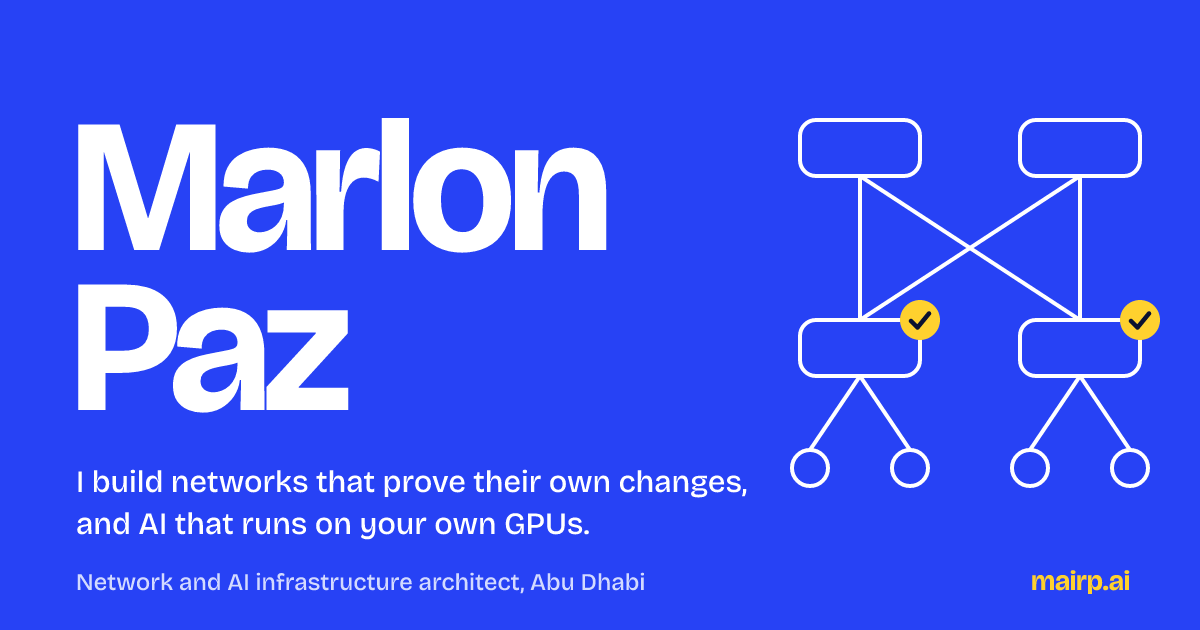
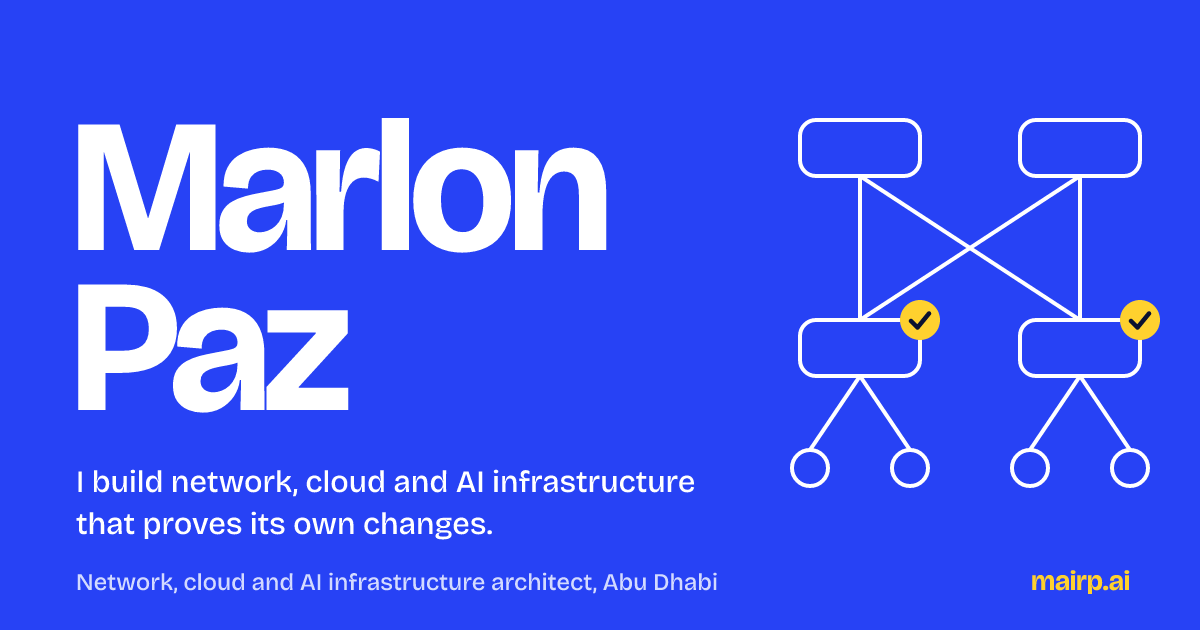
content: describe the work as network, cloud and AI infrastructure
The statement under the name said "I build networks that prove their own
changes, and AI that runs on your own GPUs.", which read as networks only.
It now reads "I build network, cloud and AI infrastructure that proves its own
changes." The role line follows in the title, meta description, footer, About
page, social card and README, and the hero names Kubernetes platforms and GPU
inference stacks next to multivendor fabrics. Recorded in DECISIONS.md.

Changed region(s): [[0.0617, 0.8143, 0.4933, 0.8746], [0.1542, 0.9048, 0.6167, 0.9349], [0.2467, 0.754, 0.6167, 0.7841]]

diff --git a/src/lib/site.ts b/src/lib/site.ts
@@ -3,9 +3,9 @@ export const SITE = {
   name: 'Marlon Paz',
   practice: 'Network & AI Systems Consulting',
   url: 'https://mairp.ai',
-  title: 'Marlon Paz, network and AI infrastructure architect',
+  title: 'Marlon Paz: network, cloud and AI infrastructure architect',
   description:
-    'Independent consulting by Marlon Paz: multivendor network automation, agentic NetOps/CloudOps (intent-to-fabric with verified-on-device change), and sovereign local inference on your own GPUs. Every claim on this site links to public evidence.',
+    'Marlon Paz designs and automates network, cloud and AI infrastructure: multivendor fabrics, Kubernetes platforms, agentic NetOps/CloudOps with verified-on-device change, and sovereign inference on your own GPUs. Every claim on this site links to public evidence.',
   tagline: 'Infrastructure that verifies itself.',
   caption: 'AI you can run on your own GPUs.',
   email: 'marlon.paz@ieee.org',
@@ -40,7 +40,7 @@ export const PORTRAIT: { src: string; small: string; width: number; height: numb
 };
 
 /** The one-sentence statement under the name. */
-export const STATEMENT = 'I build networks that prove their own changes, and AI that runs on your own GPUs.';
+export const STATEMENT = 'I build network, cloud and AI infrastructure that proves its own changes.';
 
 /** Credentials named in the hero: each is verifiable from the badge wall or the papers. */
 export const HERO_CREDENTIALS = [

diff --git a/DECISIONS.md b/DECISIONS.md
@@ -27,6 +27,13 @@ until the device proves it.* The moat is not "AI" — every boutique says AI —
 as the hub. Owner sign-off 2026-10-07 (naming, tagline variant "on your own GPUs",
 accent, curated+grouped grid, Core42 as credential line only).
 
+**Broadened 2026-11-18 (owner).** The statement under the name read "I build networks
+that prove their own changes, and AI that runs on your own GPUs.", which framed the work as
+networks only. It now reads "I build network, cloud and AI infrastructure that proves its own
+changes.", and the role line is "network, cloud and AI infrastructure architect" (title, meta
+description, footer, social card). Sovereign inference on your own GPUs stays in the meta
+description and the services. The jobTitle in the JSON-LD and the practice name are unchanged.
+
 ## Claim → evidence map (the honesty rule)
 
 | Claim on the site | Evidence |

diff --git a/README.md b/README.md
@@ -1,6 +1,6 @@
 # mairp.ai
 
-The personal site of Marlon Paz, network and AI infrastructure architect: who he is, the
+The personal site of Marlon Paz, network, cloud and AI infrastructure architect: who he is, the
 public work you can check, and his independent consulting (multivendor network
 automation, agentic NetOps/CloudOps, sovereign local inference).
 Live at **https://mairp.ai**.
